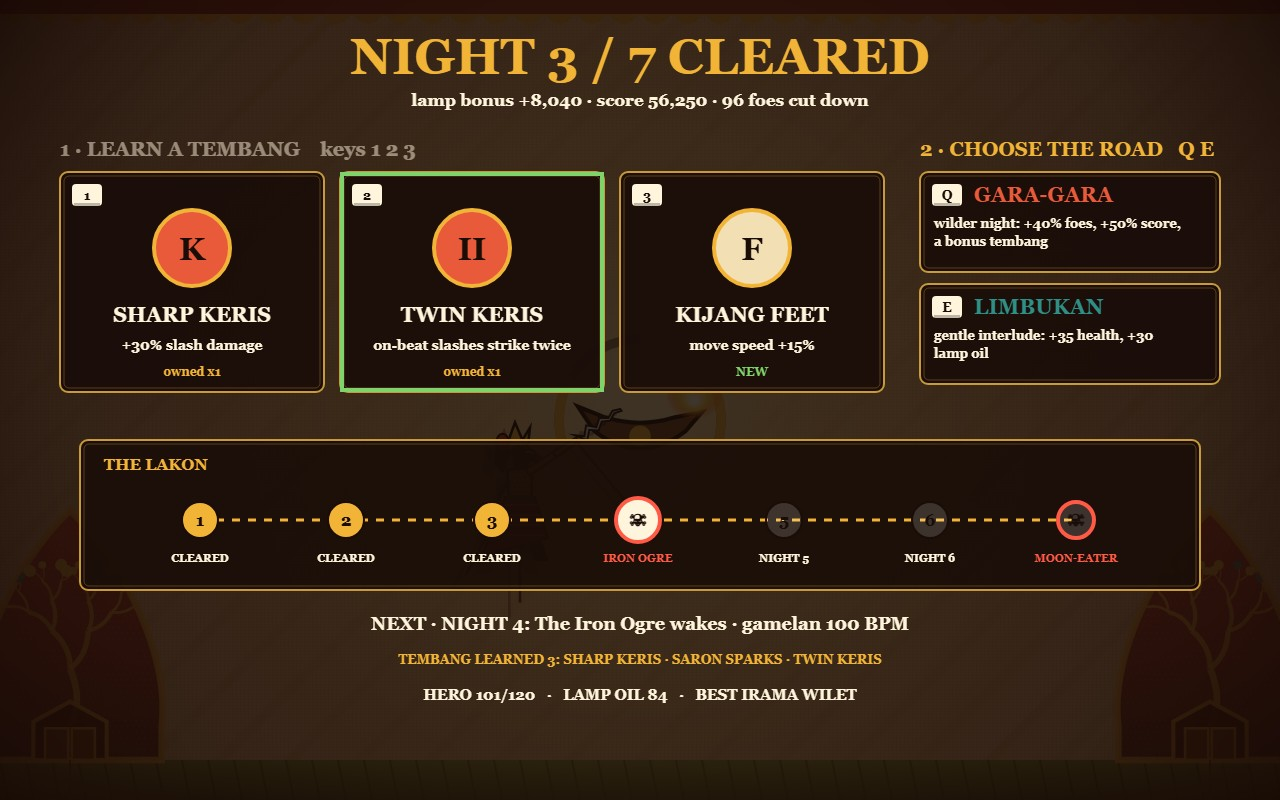
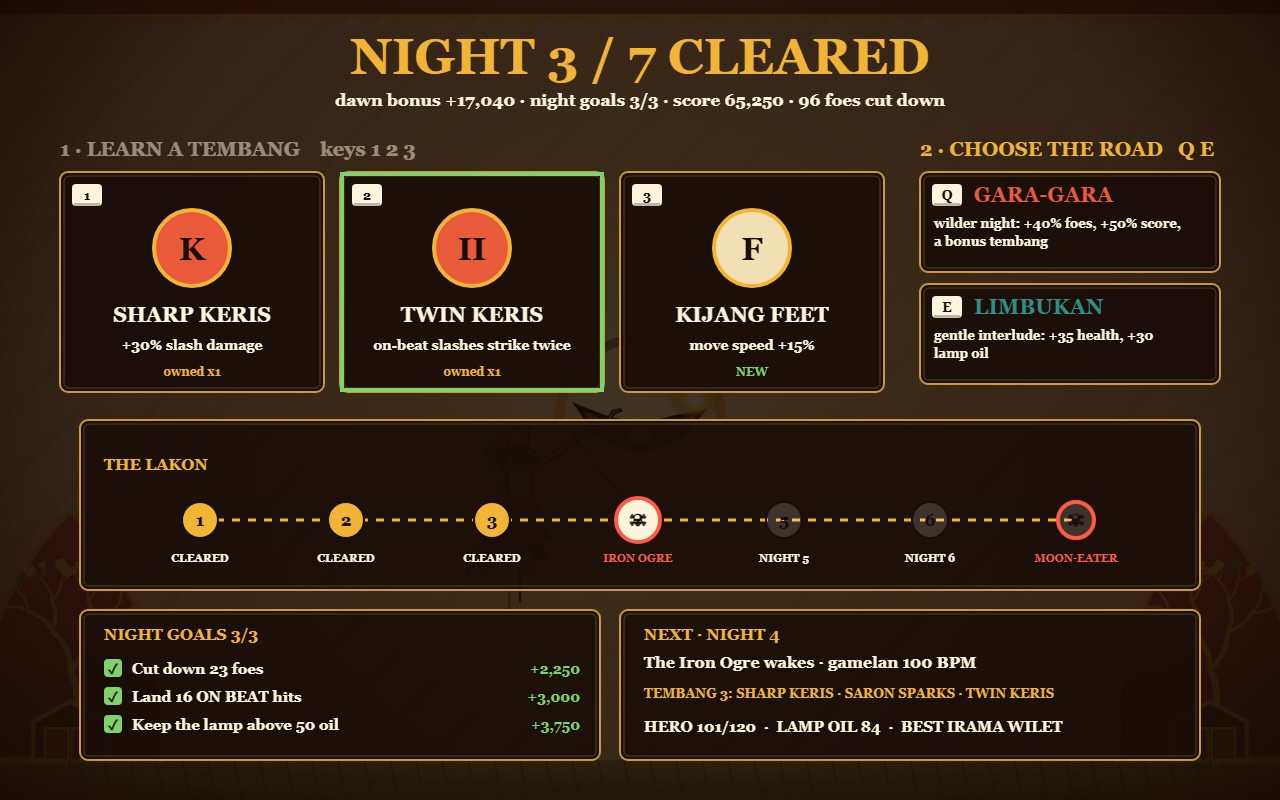
DALANG v3: night goals (3 per night, dawn bonus) on HUD, draft and results

diff --git a/game/src/screens.js b/game/src/screens.js
@@ -92,7 +92,7 @@ export function drawTitle(ctx, g) {
   });
 
   text(ctx, 'THE LAKON', 60, 660, 14, PALETTE.gold, 800);
-  text(ctx, '7 nights · 2 bosses · 5 foes · 12 tembang · 2 roads · 3 difficulties', 60, 682, 14, PALETTE.cream, 600);
+  text(ctx, '7 nights · 21 night goals · 2 bosses · 5 foes · 12 tembang · 2 roads · 3 difficulties', 60, 682, 13, PALETTE.cream, 600);
   text(ctx, `BEST ${g.save.best.toLocaleString('en-US')}`, 60, 716, 18, PALETTE.gold, 900);
   if (g.save.runs.length) {
     const r = g.save.runs[0];
@@ -148,7 +148,8 @@ export function drawDraft(ctx, g) {
   ctx.fillStyle = 'rgba(20, 10, 6, 0.82)';
   ctx.fillRect(0, 0, VIEW_W, VIEW_H);
   text(ctx, `NIGHT ${g.nightIndex + 1} / ${NIGHTS.length} CLEARED`, VIEW_W / 2, 74, 50, PALETTE.gold, 900, 'center');
-  text(ctx, `lamp bonus +${d.bonus.toLocaleString('en-US')} · score ${g.score.toLocaleString('en-US')} · ${g.stats.kills} foes cut down`, VIEW_W / 2, 106, 17, PALETTE.cream, 600, 'center');
+  const goalsDone = g.goals.filter((goal) => goal.done).length;
+  text(ctx, `dawn bonus +${d.bonus.toLocaleString('en-US')} · night goals ${goalsDone}/${g.goals.length} · score ${g.score.toLocaleString('en-US')} · ${g.stats.kills} foes cut down`, VIEW_W / 2, 106, 17, PALETTE.cream, 600, 'center');
 
   const learning = !d.picked;
   text(ctx, `1 · LEARN A TEMBANG ${d.extra ? '(Gara-gara gift: pick twice)' : ''}   keys 1 2 3`, 60, 156, 20, learning ? PALETTE.gold : 'rgba(255,244,220,0.5)', 900);
@@ -190,14 +191,29 @@ export function drawDraft(ctx, g) {
     text(ctx, line, rx + 14, ly, 13, PALETTE.cream, 600);
   });
 
-  panel(ctx, 80, 440, 1120, 150, 0.9);
+  panel(ctx, 80, 420, 1120, 170, 0.9);
   text(ctx, 'THE LAKON', 104, 470, 16, PALETTE.gold, 900);
   nightPath(ctx, g, 520);
   const nextNight = NIGHTS[g.nightIndex + 1];
-  text(ctx, `NEXT · NIGHT ${g.nightIndex + 2}: ${nextNight.title} · gamelan ${nextNight.bpm} BPM`, VIEW_W / 2, 630, 18, PALETTE.cream, 700, 'center');
+  // tonight's goals, settled at dawn
+  panel(ctx, 80, 610, 520, 150, 0.9);
+  text(ctx, `NIGHT GOALS ${goalsDone}/${g.goals.length}`, 104, 640, 16, PALETTE.gold, 900);
+  g.goals.forEach((goal, i) => {
+    const y = 674 + i * 28;
+    ctx.fillStyle = goal.done ? PALETTE.good : 'rgba(255,255,255,0.12)';
+    ctx.beginPath();
+    ctx.roundRect(104, y - 15, 18, 18, 4);
+    ctx.fill();
+    if (goal.done) text(ctx, '✓', 113, y, 14, PALETTE.ink, 900, 'center');
+    text(ctx, goal.text, 132, y, 15, goal.done ? PALETTE.cream : 'rgba(255,244,220,0.5)', 700);
+    text(ctx, goal.done ? `+${Math.round(goal.bonus * g.diff.scoreMul * (g.nightIndex + 1) * 0.5).toLocaleString('en-US')}` : 'missed', 580, y, 14, goal.done ? PALETTE.good : PALETTE.bad, 800, 'right');
+  });
+  panel(ctx, 620, 610, 580, 150, 0.9);
+  text(ctx, `NEXT · NIGHT ${g.nightIndex + 2}`, 644, 640, 16, PALETTE.gold, 900);
+  text(ctx, `${nextNight.title} · gamelan ${nextNight.bpm} BPM`, 644, 668, 16, PALETTE.cream, 700);
   const owned = g.ownedTembang();
-  text(ctx, `TEMBANG LEARNED ${owned.length}: ${owned.map((t) => t.name).join(' · ') || 'none yet'}`, VIEW_W / 2, 664, 13, PALETTE.gold, 600, 'center');
-  text(ctx, `HERO ${Math.ceil(g.player.hp)}/${g.player.maxHp}   ·   LAMP OIL ${Math.ceil(g.lamp.oil)}   ·   BEST IRAMA ${IRAMA_NAMES[g.stats.bestIrama]}`, VIEW_W / 2, 700, 15, PALETTE.cream, 700, 'center');
+  text(ctx, `TEMBANG ${owned.length}: ${owned.map((t) => t.name).join(' · ') || 'none yet'}`, 644, 698, 13, PALETTE.gold, 600);
+  text(ctx, `HERO ${Math.ceil(g.player.hp)}/${g.player.maxHp}  ·  LAMP OIL ${Math.ceil(g.lamp.oil)}  ·  BEST IRAMA ${IRAMA_NAMES[g.stats.bestIrama]}`, 644, 732, 15, PALETTE.cream, 700);
 }
 
 function fmtTime(s) {
@@ -247,7 +263,7 @@ export function drawResults(ctx, g) {
   const rate = s.actions ? Math.round((s.onBeat / s.actions) * 100) : 0;
   const cells = [
     ['FOES CUT', `${s.kills}`], ['ON BEAT', `${rate}%`], ['BEST IRAMA', IRAMA_NAMES[s.bestIrama]],
-    ['BEST CHAIN', `x${s.bestChain}`], ['TIME', fmtTime(s.time)], ['TEMBANG', `${g.owned.length}`],
+    ['BEST CHAIN', `x${s.bestChain}`], ['TIME', fmtTime(s.time)], ['NIGHT GOALS', `${s.goalsDone}/21`],
   ];
   cells.forEach(([k, v], i) => {
     const x = 360 + (i % 3) * 170; const y = 262 + Math.floor(i / 3) * 84;

diff --git a/game/src/game.js b/game/src/game.js
@@ -10,6 +10,7 @@ import { Foe, Bolt } from './enemies.js';
 import { Boss, BOSS_KINDS } from './bosses.js';
 import { baseMods, draftChoices, tembangById } from './upgrades.js';
 import { loadSave, recordRun } from './save.js';
+import { makeNightGoals, updateNightGoals, settleNightGoals } from './goals.js';
 
 export class Game {
   constructor(audio, seed = 7) {
@@ -48,7 +49,8 @@ export class Game {
     this.chainTimer = 0;
     this.road = null;
     this.roads = [];
-    this.stats = { kills: 0, actions: 0, onBeat: 0, bestIrama: 0, bestChain: 0, time: 0, hitsTaken: 0, cleanNights: 0, lowestOil: 100, tookGaragara: false };
+    this.stats = { kills: 0, actions: 0, onBeat: 0, bestIrama: 0, bestChain: 0, time: 0, hitsTaken: 0, cleanNights: 0, lowestOil: 100, tookGaragara: false, goalsDone: 0 };
+    this.goals = [];
     this.result = null;
     this.draft = null;
   }
@@ -73,6 +75,11 @@ export class Game {
     this.boss = null;
     this.spawnTimer = 1.5;
     this.nightHits = 0;
+    this.nightKills = 0;
+    this.nightBeats = 0;
+    this.nightLowestOil = this.lamp.oil;
+    this.bossBrokenTonight = false;
+    this.goals = makeNightGoals(i, n, this.queue.length);
     this.nightTotal = this.queue.length + (this.bossPending ? 1 : 0);
     this.player.shieldLeft = this.mods.shield;
     this.effects.callout(`NIGHT ${i + 1}`, '#ffe08a', n.title);
@@ -97,6 +104,7 @@ export class Game {
     this.stats.actions += 1;
     if (onBeat) {
       this.stats.onBeat += 1;
+      this.nightBeats += 1;
       this.streak += 1;
       if (p.beatGlow < 0.6) this.effects.floatText(p.x, p.y - 150, 'ON BEAT', '#ffe08a', 20);
       p.beatGlow = 1;
@@ -187,6 +195,7 @@ export class Game {
   killFoe(f, onBeat) {
     f.dead = true;
     this.stats.kills += 1;
+    if (!f.isBoss) this.nightKills += 1;
     this.chain = this.chainTimer > 0 ? this.chain + 1 : 1;
     this.chainTimer = 1.4;
     this.stats.bestChain = Math.max(this.stats.bestChain, this.chain);
@@ -199,6 +208,7 @@ export class Game {
     if (this.chain >= 3) this.effects.callout(`CHAIN x${this.chain}!`, '#ff8a3a');
     if (f.isBoss) {
       this.bossDefeated.push(f.kind);
+      this.bossBrokenTonight = true;
       this.effects.callout(`${f.def.name} FALLS`, '#ffe08a', `+${gained}`);
       this.effects.kick(18);
       this.boss = null;
@@ -238,6 +248,7 @@ export class Game {
   drainLamp(amount) {
     this.lamp.oil = Math.max(0, this.lamp.oil - amount);
     this.stats.lowestOil = Math.min(this.stats.lowestOil, this.lamp.oil);
+    this.nightLowestOil = Math.min(this.nightLowestOil, this.lamp.oil);
     if (!this.lampWarned || this.time - this.lampWarned > 2.5) {
       this.lampWarned = this.time;
       this.effects.floatText(LAMP_X, LAMP_Y - 80, 'THE LAMP DIMS!', '#ff5a46', 20);
@@ -293,6 +304,7 @@ export class Game {
     this.foes = this.foes.filter((f) => !f.dead);
     this.bolts = this.bolts.filter((b) => !b.dead);
     this.effects.update(dt);
+    updateNightGoals(this);
 
     if (this.state === 'play' && !this.queue.length && !this.foes.length && !this.boss && !this.bossPending) {
       this.clearNight();
@@ -301,7 +313,8 @@ export class Game {
 
   clearNight() {
     if (this.nightHits === 0) this.stats.cleanNights += 1;
-    const bonus = Math.round((1000 + this.lamp.oil * 20) * this.diff.scoreMul * (this.nightIndex + 1));
+    const goalBonus = settleNightGoals(this);
+    const bonus = Math.round((1000 + this.lamp.oil * 20) * this.diff.scoreMul * (this.nightIndex + 1)) + goalBonus;
     this.score += bonus;
     if (this.nightIndex >= NIGHTS.length - 1) {
       this.endRun(true, 'The Moon-Eater is driven off and dawn comes');
@@ -316,6 +329,12 @@ export class Game {
       picked: null,
       roadPicked: null,
     };
+  }
+
+  // Boss phases broken tonight: 3 once it falls, else the phase it has been driven to.
+  bossPhasesBroken() {
+    if (this.bossBrokenTonight) return 3;
+    return this.boss ? this.boss.phase : 0;
   }
 
   pickTembang(i) {

diff --git a/game/src/goals.js b/game/src/goals.js
@@ -1,0 +1,43 @@
+// Night goals: three side objectives per night. Each finished goal pays a bonus at dawn and
+// shows on the HUD checklist, so every night asks for more than just survival.
+
+import { BOSS_KINDS } from './bosses.js';
+
+export function makeNightGoals(nightIndex, night, queueLength) {
+  const cut = Math.max(6, Math.round(queueLength * 0.7));
+  const beats = 10 + nightIndex * 3;
+  const goals = [
+    { id: 'cut', text: `Cut down ${cut} foes`, target: cut, value: (g) => g.nightKills, bonus: 1500 },
+    { id: 'beat', text: `Land ${beats} ON BEAT hits`, target: beats, value: (g) => g.nightBeats, bonus: 2000 },
+  ];
+  if (night.boss) {
+    const def = BOSS_KINDS[night.boss];
+    goals.push({ id: 'boss', text: `Break all 3 phases of ${def.short}`, target: 3, value: (g) => g.bossPhasesBroken(), bonus: 4000 });
+  } else {
+    goals.push({ id: 'lamp', text: 'Keep the lamp above 50 oil', target: 1, value: (g) => (g.nightLowestOil > 50 ? 1 : 0), bonus: 2500, holds: true });
+  }
+  return goals.map((goal) => ({ ...goal, done: false }));
+}
+
+// Called every frame: marks goals as they complete and announces them once.
+export function updateNightGoals(game) {
+  for (const goal of game.goals) {
+    if (goal.done || goal.holds) continue;
+    if (goal.value(game) >= goal.target) {
+      goal.done = true;
+      game.effects.callout('GOAL!', '#7fd36a', goal.text);
+      game.audio.sfx('pick');
+    }
+  }
+}
+
+// At dawn: goals that hold all night (the lamp) are judged, and every finished goal pays.
+export function settleNightGoals(game) {
+  let bonus = 0;
+  for (const goal of game.goals) {
+    if (goal.holds) goal.done = goal.value(game) >= goal.target;
+    if (goal.done) bonus += Math.round(goal.bonus * game.diff.scoreMul * (game.nightIndex + 1) * 0.5);
+  }
+  game.stats.goalsDone += game.goals.filter((goal) => goal.done).length;
+  return bonus;
+}

diff --git a/game/src/hud.js b/game/src/hud.js
@@ -124,6 +124,27 @@ function drawIncoming(ctx, g) {
     text(ctx, FOE_KINDS[k].behaviour, 52, y + 15, 11, 'rgba(255,244,220,0.7)', 600);
     text(ctx, `x${counts[k]}`, 240, y + 4, 17, PALETTE.gold, 900, 'right');
   });
+  return 164 + h;
+}
+
+// Tonight's three side goals as a checklist with progress counts.
+function drawGoals(ctx, g, y0) {
+  if (!g.goals || !g.goals.length) return;
+  const done = g.goals.filter((goal) => goal.done || (goal.holds && goal.value(g) >= goal.target)).length;
+  panel(ctx, 14, y0, 262, 34 + g.goals.length * 26);
+  text(ctx, 'NIGHT GOALS', 28, y0 + 22, 15, PALETTE.gold, 900);
+  text(ctx, `${done}/${g.goals.length}`, 262, y0 + 22, 15, PALETTE.good, 900, 'right');
+  g.goals.forEach((goal, i) => {
+    const y = y0 + 46 + i * 26;
+    const ok = goal.done || (goal.holds && goal.value(g) >= goal.target);
+    ctx.fillStyle = ok ? PALETTE.good : 'rgba(255,255,255,0.12)';
+    ctx.beginPath();
+    ctx.roundRect(28, y - 13, 16, 16, 3);
+    ctx.fill();
+    if (ok) text(ctx, '✓', 36, y + 1, 13, PALETTE.ink, 900, 'center');
+    text(ctx, goal.text, 52, y, 12, ok ? PALETTE.cream : 'rgba(255,244,220,0.8)', 700);
+    if (!goal.holds) text(ctx, `${Math.min(goal.target, goal.value(g))}/${goal.target}`, 262, y, 12, PALETTE.gold, 800, 'right');
+  });
 }
 
 function drawBossBar(ctx, g) {
@@ -251,7 +272,8 @@ function drawControls(ctx) {
 
 export function drawHud(ctx, g) {
   drawNightPanel(ctx, g);
-  drawIncoming(ctx, g);
+  const incomingBottom = drawIncoming(ctx, g);
+  drawGoals(ctx, g, incomingBottom + 10);
   drawBossBar(ctx, g);
   drawScorePanel(ctx, g);
   drawTembangPanel(ctx, g);

diff --git a/game/src/shots.js b/game/src/shots.js
@@ -56,6 +56,8 @@ function stagePlay(game, hand) {
   game.stats.actions = 640;
   game.stats.onBeat = 431;
   game.startNight(6);
+  game.nightKills = game.goals[0].target;
+  game.nightBeats = game.goals[1].target - 4;
   game.effects.callouts = [];
   game.queue = game.queue.slice(4);
   game.bossPending = null;
@@ -106,6 +108,8 @@ function stageDraft(game, hand) {
   game.stats.bestIrama = 3;
   game.lamp.oil = 84;
   game.player.hp = 101;
+  game.nightKills = 40;
+  game.nightBeats = 30;
   simulate(game, hand, 0.2);
   game.draft.extra = 0;
   game.pickTembang(1);
@@ -121,7 +125,7 @@ function stageEnd(game) {
   game.bossPending = null;
   game.bossDefeated = ['ironOgre', 'moonEater'];
   game.score = 251380;
-  Object.assign(game.stats, { kills: 402, actions: 905, onBeat: 642, bestIrama: 4, bestChain: 11, time: 1067, cleanNights: 2, lowestOil: 58, tookGaragara: true });
+  Object.assign(game.stats, { kills: 402, actions: 905, onBeat: 642, bestIrama: 4, bestChain: 11, time: 1067, cleanNights: 2, lowestOil: 58, tookGaragara: true, goalsDone: 18 });
   game.save.runs = [{ score: 203110, grade: 'A', won: true, night: 7, diff: 'GAGAH' }, { score: 96400, grade: 'B', won: false, night: 5, diff: 'GAGAH' }, { score: 31250, grade: 'C', won: false, night: 3, diff: 'ALUS' }];
   game.save.best = 203110;
   game.endRun(true, 'The Moon-Eater is driven off and dawn comes');

diff --git a/game/src/bosses.js b/game/src/bosses.js
@@ -9,6 +9,7 @@ export const BOSS_KINDS = {
   ironOgre: {
     name: 'RAKSASA WESI',
     title: 'the Iron Ogre',
+    short: 'the Ogre',
     hp: 640,
     radius: 60,
     scale: 2.1,
@@ -19,6 +20,7 @@ export const BOSS_KINDS = {
   moonEater: {
     name: 'SANG PEMANGSA BULAN',
     title: 'the Moon-Eater',
+    short: 'the Eater',
     hp: 1100,
     radius: 70,
     scale: 1.7,

diff --git a/README.md b/README.md
@@ -16,7 +16,8 @@ keris slash, gong blast and dash landed **on the beat** hits twice as hard and c
   Space dash · P pause · M sound · R restart.
 - **Depth:** 5 foe kinds, 2 bosses with 3 phases each (the Iron Ogre's plates only crack on
   the beat; the Moon-Eater dims the lamp), 12 tembang (songs) to learn between nights, two
-  roads after each night (the wild Gara-gara or the calm Limbukan), 3 difficulties, 8 feats,
+  roads after each night (the wild Gara-gara or the calm Limbukan), 3 night goals per night
+  paying a dawn bonus, 3 difficulties, 8 feats,
   grades and a saved best score.
 - **Everything is drawn and played by code:** the puppets, the kayon tree and the screen are
   canvas paths; the saron, bonang, kempul, gong and kendang are synthesised with Web Audio.
@@ -33,7 +34,7 @@ mkdir -p out && MAKEFUN_OUTPUT_DIR=out node main.ts   # hand-in: game/, screensh
 
 Source map: `game/src/game.js` (rules and state machine), `rhythm.js` (beat clock),
 `audio.js` (gamelan synth), `puppets.js` and `stage.js` (art), `player.js`, `enemies.js`,
-`bosses.js`, `upgrades.js`, `hud.js`, `screens.js`, `effects.js`, `shots.js` (staged
+`bosses.js`, `goals.js`, `upgrades.js`, `hud.js`, `screens.js`, `effects.js`, `shots.js` (staged
 screenshot scenes, `?shot=title|play|draft|end`).
 
 ---
